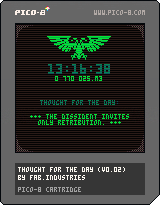
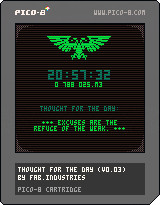
New version
Added more proverbs, some minor rendering improvements, added splash
screen

Changed region(s): [[0.1875, 0.4683, 0.8125, 0.6439], [0.2812, 0.2927, 0.6875, 0.439]]

diff --git a/README.md b/README.md
@@ -6,9 +6,9 @@ A small PICO-8 app that displays the current time and [Imperial date](https://wh
 
 This is based on my earlier web version for [munitorum.net](https://munitorum.net).
 
-### To Do
+### Download PICO-8 Cartridge
 
-* Add more proverbs
+![PICO-8 cart](tftd.p8.png)
 
 ### Thanks
 
@@ -19,5 +19,6 @@ Many thanks to the following people whose code I used as part of my program:
 
 ### Changelog
 
+**v0.03** (15/10/2025): Added proverbs, minor improvements
 **v0.02** (11/10/2025): Improved Imperial date calculation algorithm  
 **v0.01** (08/10/2025): Initial release
